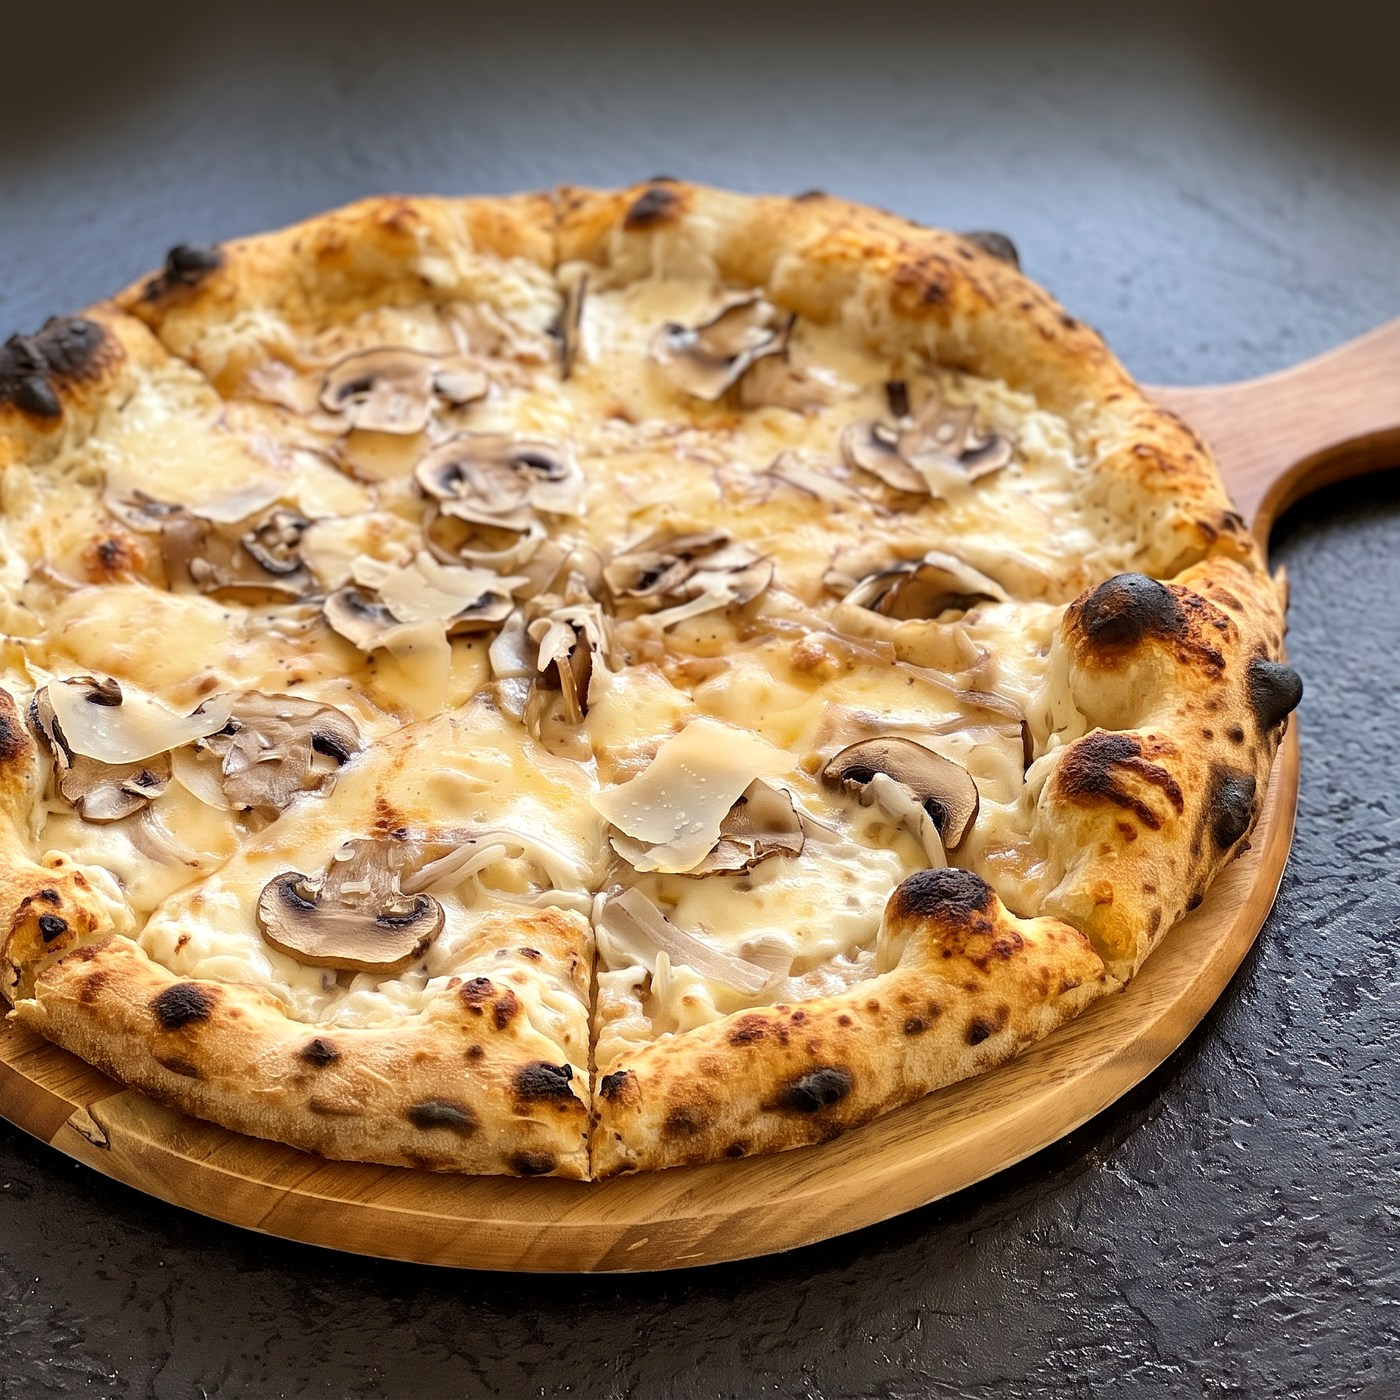
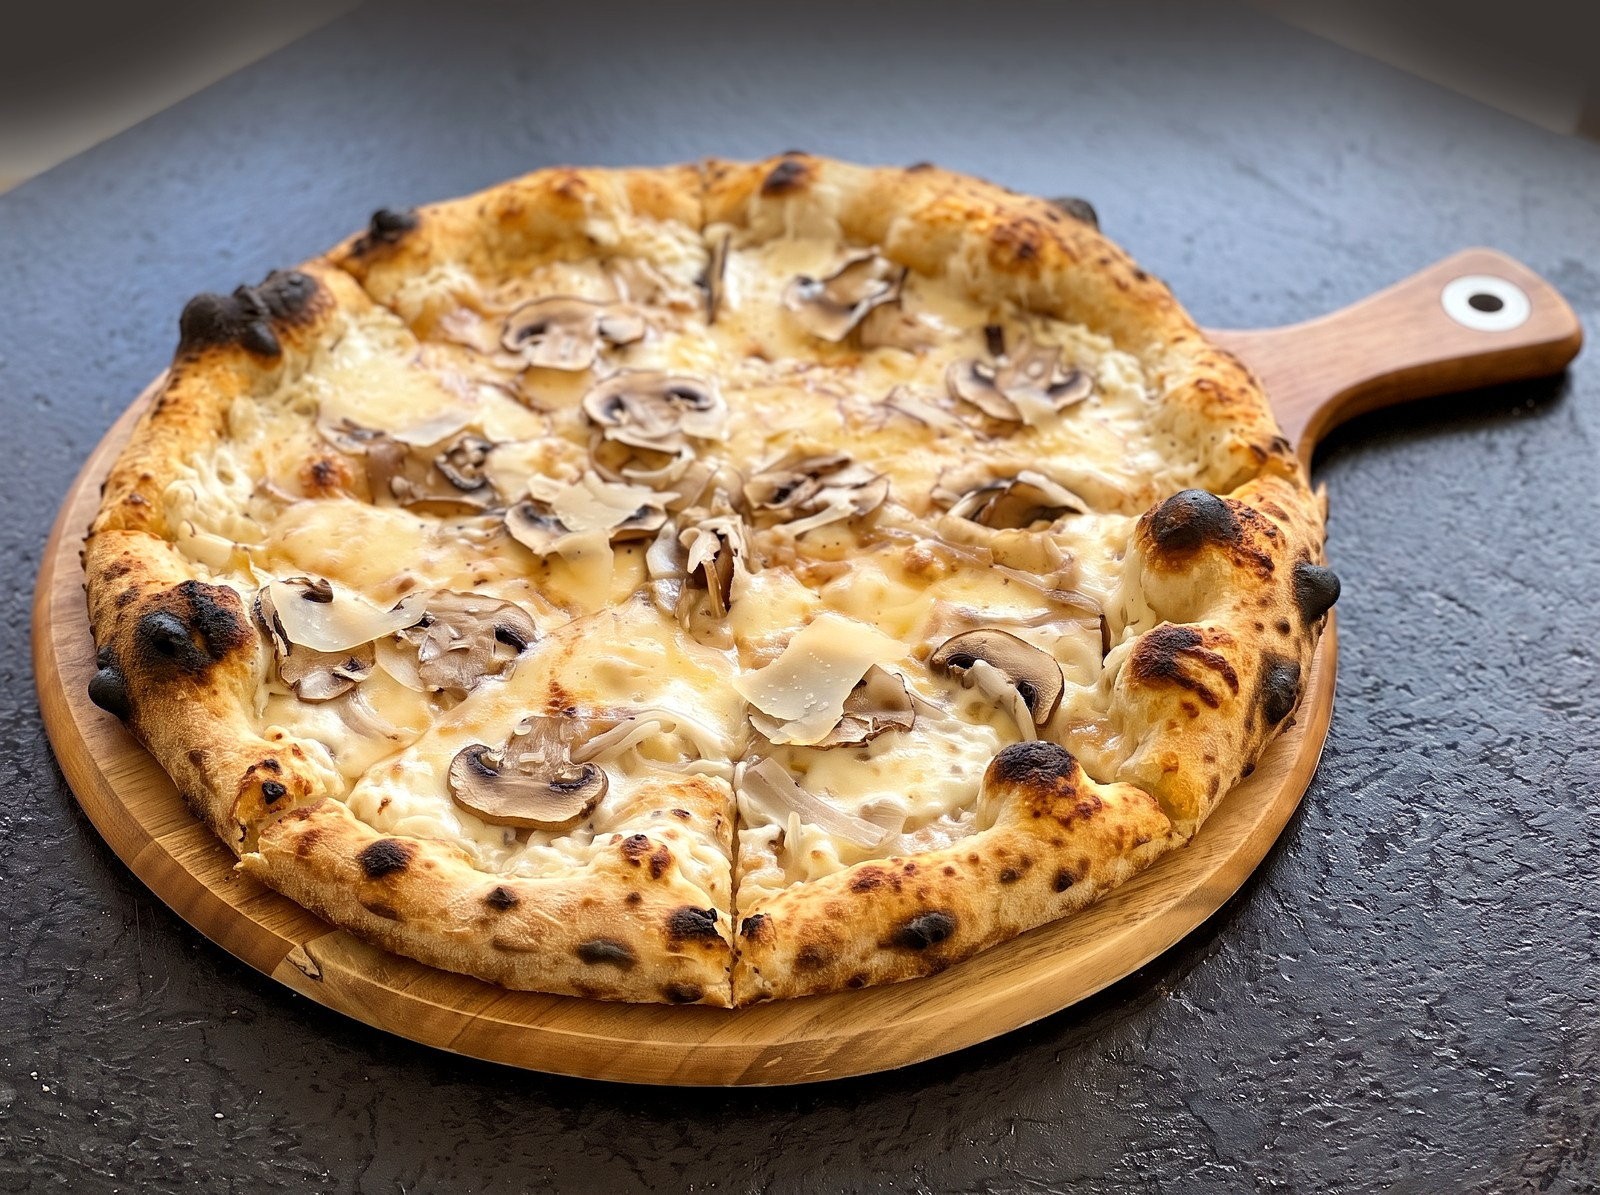
Deja de recortar: los originales ya vienen cortados
Al mirar un original con rejilla se ve que la corteza izquierda esta
cortada al 3% del ancho y la tabla al 95% del alto, en el archivo de
origen. Recortar a cuadrado se comia 608 px mas de ancho y empeoraba
lo que se intentaba arreglar.

Ahora se conserva el encuadre completo del original y las fichas pasan
a 4:3, asi que el navegador tampoco recorta. Es todo lo que se puede
hacer sin volver a fotografiar.

diff --git a/index.html b/index.html
@@ -215,7 +215,7 @@ img { display: block; }
   box-shadow: var(--shadow); transition: transform .2s, box-shadow .2s;
 }
 .card:hover { transform: translateY(-4px); box-shadow: var(--shadow-lift); }
-.card-art { aspect-ratio: 1; background: var(--surface-2); display: grid; place-items: center; overflow: hidden; cursor: zoom-in; }
+.card-art { aspect-ratio: 4 / 3; background: var(--surface-2); display: grid; place-items: center; overflow: hidden; cursor: zoom-in; }
 .card-art img, .dish-art img { transition: transform .35s; }
 .card:hover .card-art img, .dish:hover .dish-art img { transform: scale(1.04); }
 .card-art img { width: 100%; height: 100%; object-fit: cover; }
@@ -245,12 +245,12 @@ img { display: block; }
 
 .menu-list { display: grid; grid-template-columns: repeat(2, 1fr); gap: 16px; }
 .dish {
-  display: grid; grid-template-columns: 92px 1fr; gap: 18px; align-items: center;
+  display: grid; grid-template-columns: 116px 1fr; gap: 18px; align-items: center;
   background: var(--surface); border: 1px solid var(--line);
   border-radius: var(--r-md); padding: 16px; transition: border-color .2s, transform .2s;
 }
 .dish:hover { border-color: var(--line-strong); transform: translateY(-2px); }
-.dish-art { width: 92px; height: 92px; border-radius: 14px; overflow: hidden; background: var(--surface-2); display: grid; place-items: center; cursor: zoom-in; }
+.dish-art { width: 116px; height: 87px; border-radius: 14px; overflow: hidden; background: var(--surface-2); display: grid; place-items: center; cursor: zoom-in; }
 
 /* Pizzas todavia sin fotografia: ficha de texto, sin hueco vacio */
 .dish-plain { grid-template-columns: 1fr; padding: 24px 22px 22px; }
